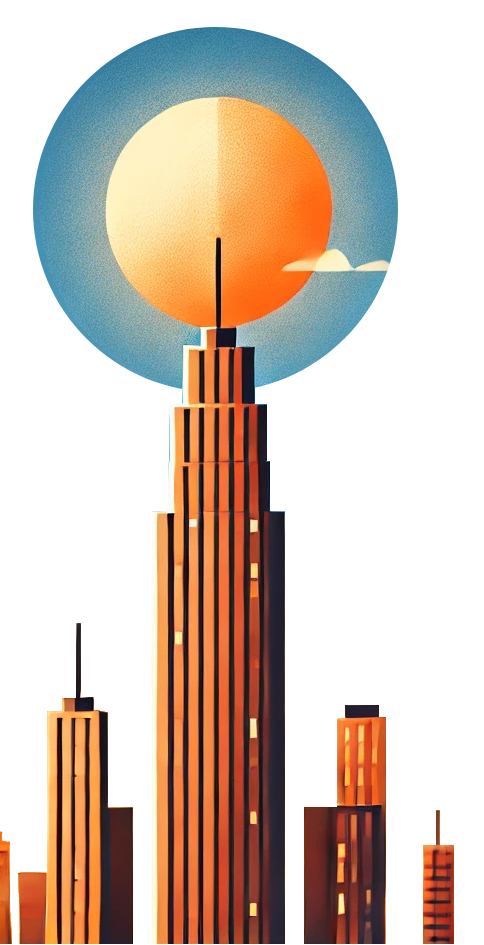
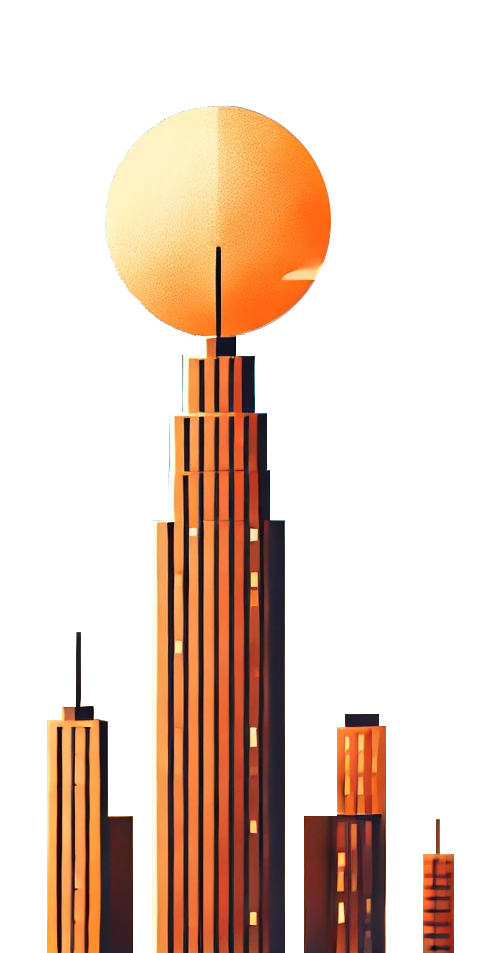
Add assets

diff --git a/frontend/src/components/leftPart.jsx b/frontend/src/components/leftPart.jsx
@@ -4,6 +4,7 @@ import { LuSunset } from "react-icons/lu";
 import { GoSun } from "react-icons/go";
 import BuildingSun from '../assets/building_sun.png';
 import './leftPart.css';
+import BuildingNight from '../assets/building_night.png';
 
 function LeftPart() {
   return (
@@ -35,7 +36,7 @@ function LeftPart() {
         <GoSun color="white" />
         <div>Ensoleillé</div>
       </div>
-      <img src={BuildingSun} alt="Building and sun" className="background-image" /> 
+      <img src={BuildingNight} alt="Building and sun" className="background-image" /> 
     </div>
   );
 }
